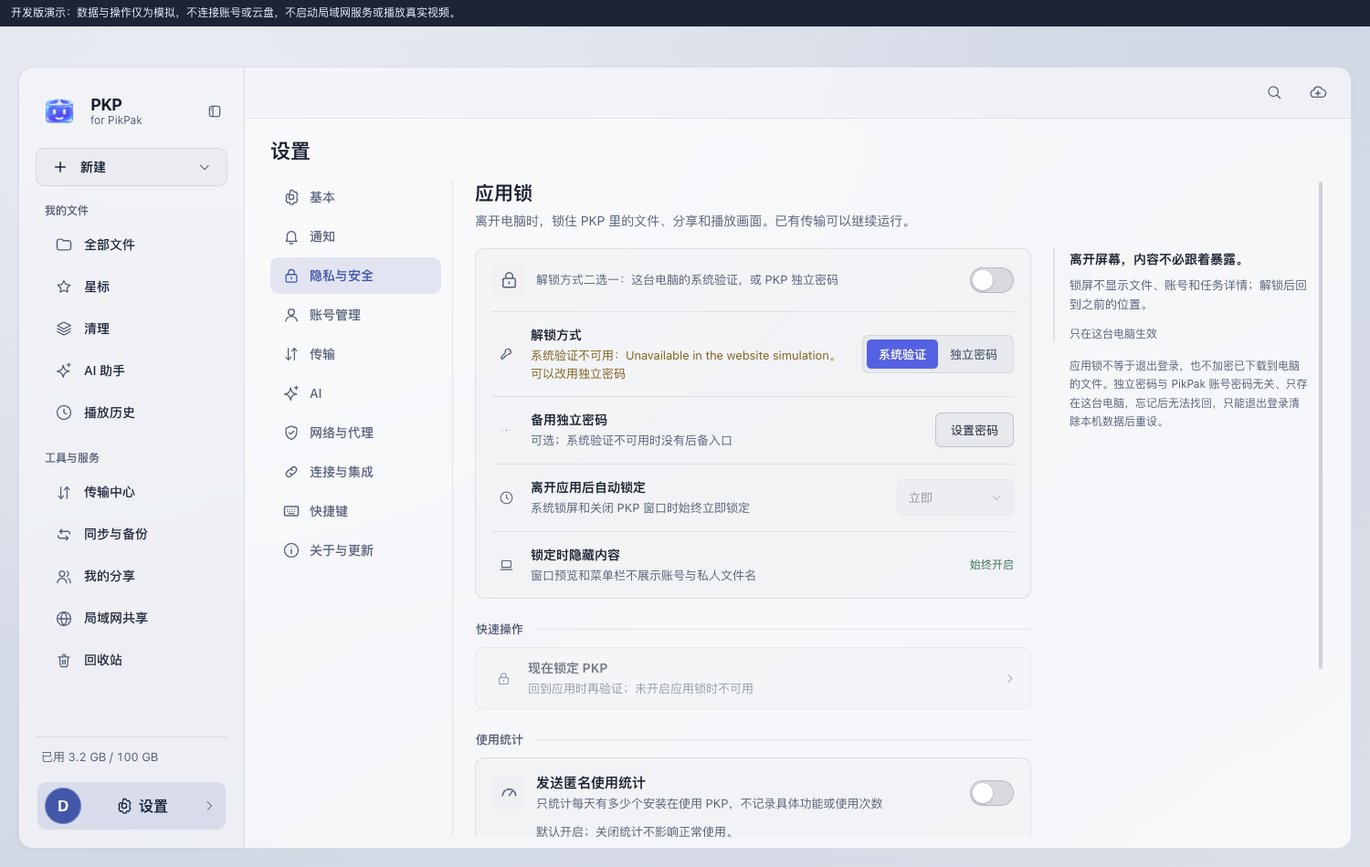
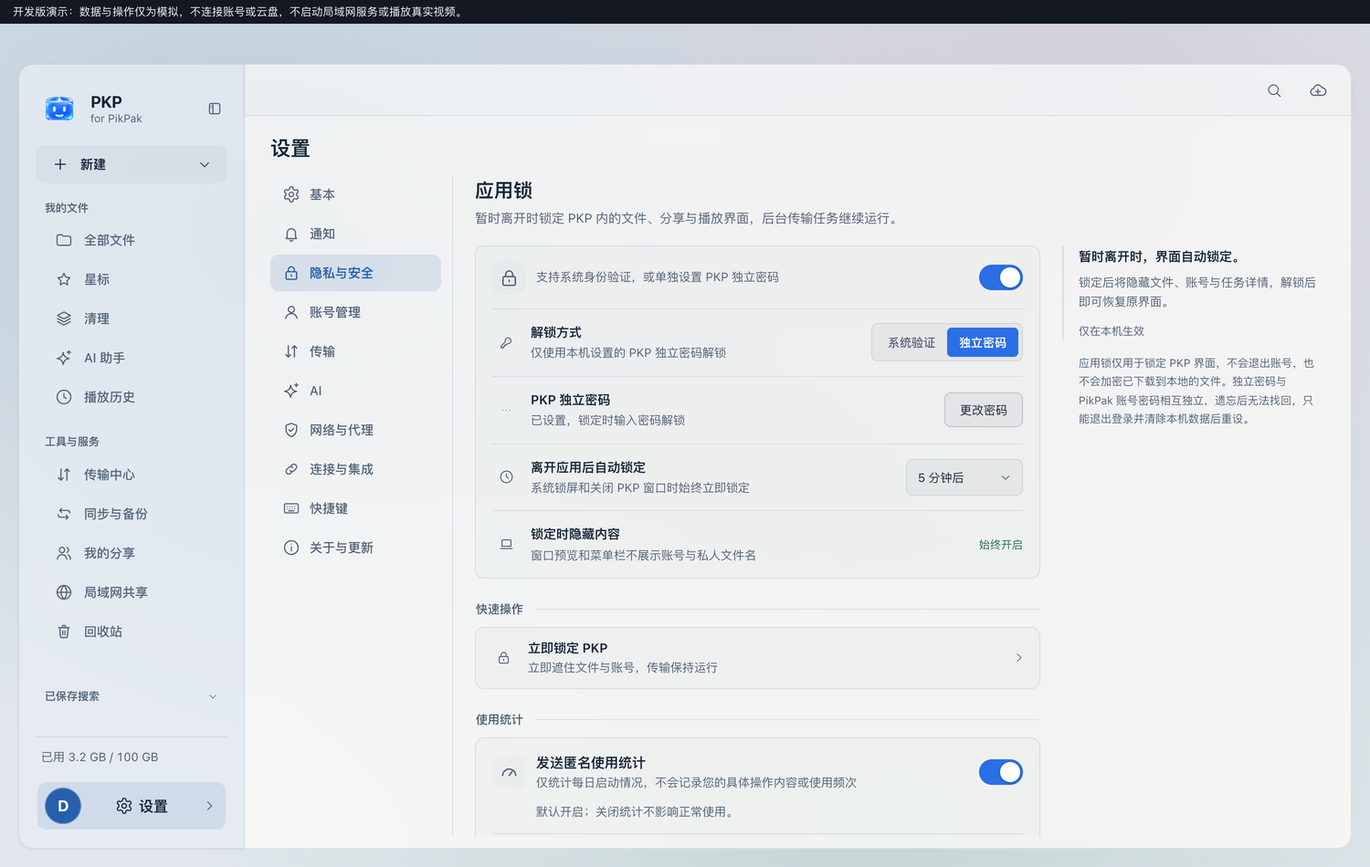
docs: sync documentation and screenshots and decouple release versions

diff --git a/docs/INSTALL.en.md b/docs/INSTALL.en.md
@@ -4,9 +4,9 @@
 
 ## Download Status
 
-**v0.7.1** improves crash diagnostics and optional feedback, and fixes native player-window lifetime risks on macOS. Download from the [latest Release](https://github.com/tonyflux/pkp/releases/latest): [macOS Universal](https://github.com/tonyflux/pkp/releases/download/v0.7.1/PKP-0.7.1-macos-universal.dmg) / [Windows x64 and ARM64](https://github.com/tonyflux/pkp/releases/download/v0.7.1/PKP-0.7.1-windows-x64-arm64-setup.exe). Check against `SHA256SUMS` from the same Release and verify the signature. Obtain installers from this repository's Releases.
+Download installers from this repository's [latest Release](https://github.com/tonyflux/pkp/releases/latest) (`PKP-<version>-macos-universal.dmg` for macOS Universal / `PKP-<version>-windows-x64-arm64-setup.exe` for Windows x64 and ARM64, plus Linux packages when included in that Release; see [Releases](https://github.com/tonyflux/pkp/releases) and the [Changelog](../CHANGELOG.en.md) for per-version notes). Check against `SHA256SUMS` from the same Release and verify the signature. Obtain installers only from this repository's Releases.
 
-v0.2.0 was the first open-source release. v0.7.1 includes `PKP-0.7.1-source.tar.gz` (PKP-owned source corresponding to the installers) and `libmpv-sources.tar.gz` (corresponding media-component source including PKP's Windows PCM helper source and license). Share Import supports pasted PikPak share links, explicit `pkp://share` opening, and automatic detection of validated clipboard shares on desktop. After a read-only grid/list preview, choose the receiving account and destination and confirm; it never imports automatically. See the [user guide](USAGE.en.md) for operations and limits.
+v0.2.0 was the first open-source release. Subsequent releases include `PKP-<version>-source.tar.gz` (PKP-owned source corresponding to the installers) and `libmpv-sources.tar.gz` (corresponding media-component source including PKP's Windows PCM helper source and license). Share Import supports pasted PikPak share links, explicit `pkp://share` opening, and automatic detection of validated clipboard shares on desktop. After a read-only grid/list preview, choose the receiving account and destination and confirm; it never imports automatically. See the [user guide](USAGE.en.md) for operations and limits.
 
 **v0.1.0 remains available** as a historical release: [macOS Universal](https://github.com/tonyflux/pkp/releases/download/v0.1.0/PKP-0.1.0-macos-universal.dmg) / [Windows x64 and ARM64](https://github.com/tonyflux/pkp/releases/download/v0.1.0/PKP-0.1.0-windows-x64-arm64-setup.exe). That Release also provides `libmpv-sources.tar.gz` and the terms in effect at the time. Its installers were not built from the current source and remain under [those proprietary terms](legal/v0.1.0-proprietary.txt). Prefer the latest version for new installs. Usage statistics defaulted to off in v0.2.0 and on in v0.1.0; v0.3.0 defaults daily active installation statistics to on.
 
@@ -51,7 +51,7 @@ Windows provides a shared x64 / ARM64 installer that selects the application and
 
 ## Linux
 
-Current source builds `.deb`, `.rpm`, and AppImage packages for x86_64 (`amd64`) and ARM64 (`arm64`). Native minimums are glibc 2.39, GTK 4.14 and WebKitGTK 6.0; Ubuntu 24.04 is the build baseline. This does not add Linux assets to the existing v0.7.1 release: check the actual Release attachments rather than treating source support as publication.
+Current source builds `.deb`, `.rpm`, and AppImage packages for x86_64 (`amd64`) and ARM64 (`arm64`). Native minimums are glibc 2.39, GTK 4.14 and WebKitGTK 6.0; Ubuntu 24.04 is the build baseline. Source support does not mean every Release includes Linux packages: check the actual Release attachments rather than treating source support as publication.
 
 - Ubuntu/compatible Debian systems: after verification, use `sudo apt install ./PKP-<version>-linux-<arch>.deb`. The package manager installs GTK, WebKitGTK, libmpv and FFmpeg dependencies.
 - RPM distributions: use `sudo dnf install ./PKP-<version>-linux-<arch>.rpm`. RPM carries the same private runtime as AppImage instead of requiring Ubuntu FFmpeg ABIs on Fedora-like systems. The host still needs glibc 2.39, user namespaces and graphics drivers; system policy/keyring/desktop portal services come from package management and the desktop session.
@@ -61,7 +61,7 @@ Current source builds `.deb`, `.rpm`, and AppImage packages for x86_64 (`amd64`)
 - GTK rendering supports X11 and Wayland. Scaling, drivers, GNOME/KDE and multiple displays still require device-specific acceptance. Without a system-tray host, closing the main window does not hide PKP somewhere inaccessible.
 - Remembered passwords require an unlocked Secret Service keyring such as GNOME Keyring or compatible KWallet. System authentication requires the packaged polkit policy and a desktop authentication agent. A standalone AppImage does not install system policy; use a PKP standalone password when unavailable. Linux cannot guarantee blocking screenshots, screen recordings or cached desktop previews.
 - RPM/AppImage use a bundled `/usr` in a private mount namespace. Home and ordinary files retain their paths; host `/usr` is accessible through the runtime's `host-usr` directory. Prefer native deb if directly browsing host system `/usr` files is required.
-- Revealing external files requires FileManager1 or a desktop portal; RPM/AppImage never execute host `.desktop` commands against private runtime libraries. Notifications, lock events and power management depend on host session services and report unavailable services explicitly. Private-runtime “Open notification settings” supports GNOME D-Bus activation; use system settings manually on other desktops.
+- Revealing external files requires FileManager1 or a desktop portal; RPM/AppImage never execute host `.desktop` commands against private runtime libraries. Notifications, lock events and power management depend on host session services and report unavailable services explicitly. Private-runtime “System notification settings” supports GNOME D-Bus activation; use system settings manually on other desktops.
 - Local sync and LAN directory authorization support ordinary ext4, XFS, Btrfs and tmpfs. Network/FUSE/overlay filesystems and encrypted/casefold directories whose safe name semantics cannot be represented are refused; an unavailable directory is never treated as deleted content. Linux local deletion uses freedesktop Trash without a permanent-delete fallback.
 
 Uninstalling the program does not delete account configuration, keyring entries, downloads or screenshots. Sign out and remove accounts in the app first, then follow the privacy notice for remaining data.
@@ -73,7 +73,7 @@ Versions that support updates can check via “Settings → About & Updates”; 
 Release information, download progress, and download/install buttons appear together in the version card at the top of the page. Release notes follow and scroll with the page. The default window shows the main update action without scrolling; notification and menu entries also return to the result area at the top.
 
 - macOS (from v0.2.0): first click “Download Update,” then “Restart & Update” after download and verification finish. During preparation, macOS may request permission to replace the app; quit any other PKP instances using the same installed app first. Once you confirm quitting, the update helper waits for PKP to exit, replaces the app in its original location, and reopens the same profile. Accounts and local settings are preserved. Canceling permission or quit confirmation does not force PKP to close. Update from the installed app in Applications, not a DMG, a read-only location, or a translocated temporary path. Updates do not remove quarantine flags or bypass Gatekeeper. The ad hoc signing and lack of notarization still apply, and reopening may require system approval.
-- Windows: click “Quit and Run Installer,” then proceed through the quit confirmation and system administrator authorization. Canceling either quitting or authorization will not force PKP to close. The installer requires other PKP processes to exit and reuses the original installation directory; there is no need to uninstall first. Accounts and local settings are retained. Thorough acceptance testing on real Windows devices is still needed.
+- Windows: click “Quit & Run Installer,” then proceed through the quit confirmation and system administrator authorization. Canceling either quitting or authorization will not force PKP to close. The installer requires other PKP processes to exit and reuses the original installation directory; there is no need to uninstall first. Accounts and local settings are retained. Thorough acceptance testing on real Windows devices is still needed.
 - Linux: after download and verification, click “Show Package.” The package is saved under `PKP Updates` in your home directory and remains after quitting or restarting; you may delete it after installation. Quit PKP, then install deb/rpm through the package manager or manually replace the original AppImage. No silent elevation or system-file replacement occurs. Signed Linux assets use a separate `linuxPackages` field, retaining the legacy two-platform macOS/Windows update contract.
 - The released macOS v0.1.0 does not include this replacement helper. To gain “Restart & Update,” upgrading to v0.2.0 or later still requires one manual replacement: download and open the new DMG, quit PKP, then drag it over the installed app. Do not run the app directly from the image. Accounts and local settings are preserved.
 - Local test versions that lack update functionality or trust the old development public key require manually downloading and installing the official version first; no upgrade prompt will appear if both versions are 0.1.0.
@@ -82,7 +82,7 @@ v0.2.0 is published with this macOS update flow. Publishing the release does not
 
 ## First Launch
 
-- Log in with your own PikPak account. “Remember Account and Password” and “Automatic Login” are currently checked by default; uncheck them if you do not want your password saved.
+- Log in with your own PikPak account. “Remember account and password” and “Sign in automatically” are currently checked by default; uncheck them if you do not want your password saved.
 - Read the [Privacy Notice](../PRIVACY.en.md) first. v0.1.0 defaulted usage statistics on; v0.2.0 defaulted them off. v0.3.0 defaults daily active installation statistics to on, including existing settings with no explicit choice, while preserving identifiable explicit opt-outs. A one-time notice explains the default and how to turn statistics off in Settings → Privacy & Security, also accessible before sign-in. Got it and dismissal are not consent and leave statistics enabled; the notice has no turn-off button. With an endpoint, recording starts at startup and sending can begin about 30 seconds later, before acknowledgment; development builds without an endpoint neither collect nor show the notice. Publishing the app does not deploy companion telemetry services.
 - The first login creates a local file index, during which you can still browse; search and drive-wide statistics may need to wait until the index is ready.
 - macOS may request permission for system notifications; whether to allow them is up to you. Actual notification behavior in the current ad hoc build still awaits confirmation on real devices.

diff --git a/README.md b/README.md
@@ -31,31 +31,31 @@ PKP is an independent desktop client for a PikPak account you already have. It i
 
 - **AI organizing assistant, with review before apply.** Local filename rules can draft a plan with no model. You can also connect your own model (or local Ollama) and TMDB credentials. Renames, moves, and cleanup wait until you confirm the plan.
 - **Folder sync.** Pair a local folder with a cloud folder. Two-way sync, local-to-cloud backup, or cloud-to-local download. PKP scans both sides and shows the plan before it runs. Sync works while PKP is open.
-- **Native playback.** A bundled libmpv player: quality switching, subtitles, audio tracks, resume, and a separate window. Availability depends on the file, codec, and service.
+- **Native playback.** A native libmpv player: quality switching, subtitles, audio tracks, resume, and a separate window. Availability depends on the file, codec, and service.
 - **LAN sharing.** Share selected local or cloud folders read-only with a separate password. Devices on the same network can browse, download originals, and play supported media through a responsive browser page while PKP is running.
 - **Share Import.** Paste a PikPak share link or explicitly open `pkp://share`; desktop builds also detect validated clipboard shares at startup or when returning to PKP. Browse a read-only grid/list preview, then explicitly choose the receiving account and destination folder and confirm. Detection and preview never import automatically. See the [user guide](docs/USAGE.en.md#import-a-pikpak-share).
-- **AI subtitles.** Generate captions from the video's audio through PikPak, in the original language or Chinese, English, Japanese, or Korean. Available on macOS since v0.6.0 and on Windows x64/ARM64 since v0.6.1. Enable them in the player's subtitle menu; PikPak membership, quota, and availability apply. No chat-model API key is needed. See [usage and data handling](docs/USAGE.en.md#playback-and-reading).
+- **AI subtitles.** Generate captions from the video's audio through PikPak, in the original language or Chinese, English, Japanese, or Korean. Supported on macOS, Windows x64/ARM64, and Linux builds with bundled/system audio decoding. Enable them in the player's subtitle menu; PikPak membership, quota, and availability apply. No chat-model API key is needed. See [usage and data handling](docs/USAGE.en.md#playback-and-reading).
 - **Local index search.** Each account keeps an index on this computer, with type, size, and other filters. Search does not send file names to a model. The first index takes time.
-- **Multiple accounts.** Each account has its own session, transfer queue, and index. Switching accounts leaves the others' transfers running.
+- **Multiple accounts.** Each account keeps its own session, transfer queue, and local index; switching accounts leaves the others' transfers running. With multiple accounts, choose **All accounts** on the Files page to browse, filter, search, play, and download across accounts' local indexes while keeping cloud drives and transfer queues isolated per account.
 - **Privacy on this computer.** Remembered passwords and optional API keys use macOS Keychain, Windows Credential Manager or Linux Secret Service. See [Privacy](#privacy).
 
 The interface is available in English, Simplified Chinese, Traditional Chinese, Japanese, and Korean.
 
 ## Install
 
-**[PKP 0.7.1](https://github.com/tonyflux/pkp/releases/tag/v0.7.1)** improves crash diagnostics and optional feedback, and fixes native player-window lifetime risks on macOS. Download only from this repository's [latest Release](https://github.com/tonyflux/pkp/releases/latest), then check `SHA256SUMS` from the same release. Details and first-launch steps are in the [installation guide](docs/INSTALL.en.md). v0.2.0 was the first open-source release.
+Download only from this repository's [latest Release](https://github.com/tonyflux/pkp/releases/latest) (see [Changelog](CHANGELOG.en.md) and release notes on GitHub for what changed), then check `SHA256SUMS` from the same release. Details and first-launch steps are in the [installation guide](docs/INSTALL.en.md). v0.2.0 was the first open-source release.
 
 | Platform | Download |
 | --- | --- |
-| macOS 12 or later, Apple silicon and Intel | [PKP-0.7.1-macos-universal.dmg](https://github.com/tonyflux/pkp/releases/download/v0.7.1/PKP-0.7.1-macos-universal.dmg) |
-| Windows x64 / ARM64 preview | [PKP-0.7.1-windows-x64-arm64-setup.exe](https://github.com/tonyflux/pkp/releases/download/v0.7.1/PKP-0.7.1-windows-x64-arm64-setup.exe) |
-| Linux x86_64 / ARM64 | Current source builds deb/rpm/AppImage; see [Linux installation and limits](docs/INSTALL.en.md#linux). Existing v0.7.1 has no Linux attachment. |
+| macOS 12 or later, Apple silicon and Intel | Download `PKP-<version>-macos-universal.dmg` from the [latest Release](https://github.com/tonyflux/pkp/releases/latest) |
+| Windows x64 / ARM64 preview | Download `PKP-<version>-windows-x64-arm64-setup.exe` from the [latest Release](https://github.com/tonyflux/pkp/releases/latest) |
+| Linux x86_64 / ARM64 | Check the [latest Release](https://github.com/tonyflux/pkp/releases/latest) for `deb`/`rpm`/`AppImage` attachments, or build from source; see [Linux installation and limits](docs/INSTALL.en.md#linux). |
 
 The macOS build is ad hoc signed and is not notarized, so the system may ask you to approve the first launch. The Windows build has no Authenticode publisher signature, and playback, sync, notifications, and system authentication still need broader testing on real devices. Linux targets GTK4/WebKitGTK 6.0 on Ubuntu 24.04 or compatible userspace; AppImage retains the sandbox and needs user namespaces. Builds do not imply a published package or complete device acceptance.
 
 **Homebrew.** PKP has no cask. `brew install --cask pikpak` installs PikPak's own app, which is a different program.
 
-Since v0.2.0, releases use eight assets: the two installers, `update.json`, `update.json.sig`, `PKP-<version>-source.tar.gz`, `libmpv-sources.tar.gz`, `LICENSE`, and `SHA256SUMS`. v0.7.1 retains this set and the same update trust key. The historical [v0.1.0](https://github.com/tonyflux/pkp/releases/tag/v0.1.0) installers stay under the proprietary terms shipped with that release. Prefer the latest public release for a new install. Usage statistics defaulted to off in v0.2.0 and on in v0.1.0, and daily active installation statistics default to on since v0.3.0.
+Since v0.2.0, two-platform releases include eight assets: the two installers, `update.json`, `update.json.sig`, `PKP-<version>-source.tar.gz`, `libmpv-sources.tar.gz`, `LICENSE`, and `SHA256SUMS`; Linux-inclusive releases add amd64/arm64 `deb`, `rpm`, `AppImage`, and runtime source archives (16 assets total) while keeping the same update trust key. The historical [v0.1.0](https://github.com/tonyflux/pkp/releases/tag/v0.1.0) installers stay under the proprietary terms shipped with that release. Prefer the latest public release for a new install. Usage statistics defaulted to off in v0.2.0 and on in v0.1.0, and daily active installation statistics default to on since v0.3.0.
 
 ## In the app
 
@@ -72,8 +72,8 @@ Since v0.2.0, releases use eight assets: the two installers, `update.json`, `upd
   </tr>
   <tr>
     <td colspan="2" valign="top">
-      <img src="assets/screenshots/en/accounts.webp" alt="English account switcher with two demo accounts">
-      <br><b>Switch accounts</b> without merging drives.
+      <img src="assets/screenshots/en/accounts.webp" alt="English account switcher and All accounts scope with two demo accounts">
+      <br><b>Switch accounts or browse All accounts</b> across local indexes without merging cloud drives or transfer queues.
     </td>
   </tr>
 </table>
@@ -121,7 +121,7 @@ make app-go
 Read the privacy notice before you sign in: [English](PRIVACY.en.md) · [简体中文](PRIVACY.md).
 
 <p align="center">
-  <img src="assets/screenshots/en/app-lock.webp" alt="English App Lock settings, with system login or a separate PKP password" width="720">
+  <img src="assets/screenshots/en/app-lock.webp" alt="English Privacy settings showing App Lock (System or PKP password) and usage statistics in the development demo" width="720">
 </p>
 
 - Remembered passwords, AI keys, and TMDB credentials use macOS Keychain (service `com.pkp.desktop`), Windows Credential Manager or Linux Secret Service. Session tokens remain in a local credentials file. Remember-password and automatic-login options start checked; clear them to keep the sign-in password only in memory. Linux requires an unlocked session keyring. App Lock limits in-app access, not downloaded-file/config-directory encryption or guaranteed Linux capture protection.
@@ -138,7 +138,7 @@ Local data, deletion limits, and the statistics endpoint are spelled out in [PRI
 | --- | --- |
 | macOS | Universal app for macOS 12 or later. Ad hoc signature, not notarized. |
 | Windows | One x64 / ARM64 preview installer. No Authenticode publisher signature. Some macOS-only integrations are absent, and real-device coverage is still thin. |
-| Linux | No packages and no support commitment. |
+| Linux | Source builds `deb`, `rpm`, and `AppImage` packages for x86_64 / ARM64 targeting the Ubuntu 24.04 / GTK4 / WebKitGTK 6.0 baseline. Whether a release includes Linux attachments depends on the assets published on that Release. See [Linux installation and limits](docs/INSTALL.en.md#linux). |
 
 PKP works with files in your own PikPak account. Quotas, network access, and Premium-only features follow that account. Back up important files before sync, cleanup, or a bulk organize.
 

diff --git a/RELEASE.en.md b/RELEASE.en.md
@@ -8,7 +8,7 @@ This file describes only the release constraints for the public repository. It d
 - PKP's own source code is licensed under GPL-3.0-only. The released v0.1.0 installation packages are governed by `docs/legal/v0.1.0-proprietary.txt`; do not retroactively apply the current source code or the new license to that version.
 - Historical eight-asset releases from v0.2.0 remain verifiable. Linux-inclusive releases add amd64/arm64 deb, rpm, AppImage and corresponding-runtime-source archives, for sixteen assets. The signed `linuxPackages` field authenticates additions while `packages` retains exactly the two legacy macOS/Windows entries. PKP-owned source corresponds to the release commit; Linux runtime source matches the distribution packages actually bundled, not the macOS/Windows media-source archive. Do not commit installers; historical v0.1.0 terms remain unchanged.
 - Keep the update-signing private key outside the repository or in the optional protected GitHub `release` environment, never in ordinary CI. If it is lost, do not silently replace the public key trusted by distributed clients.
-- The maintainer has confirmed that the current third-party client identity parameters may be published and reused. Authentication values, the signing algorithm, and referral behavior remain unchanged. This does not imply PikPak endorsement or an independent legal audit.
+- The maintainer has confirmed that the current third-party client identity parameters may be published and reused; authentication values and the signing algorithm remain, while automatic post-sign-in referral submission and registration attribution have been removed from the current source (previously established relationships are not automatically revoked). This does not imply PikPak endorsement or an independent legal audit.
 - The maintainer has confirmed permission to publish and distribute the current application mark with the open-source source and installation packages; it is no longer an unresolved blocker. This does not imply official endorsement. See `docs/legal/artwork-provenance.md` for provenance and export-chain boundaries.
 - From v0.2.0, macOS uses an explicit “Download Update → Restart & Update” flow. After preparation and user-confirmed quitting, the helper replaces the app in place and reopens the same profile, preserving accounts and settings. macOS may request replacement permission; other PKP instances using the same app must quit first and are not forcibly terminated. The existing stable `update.json`, Ed25519 signature, DMG, and embedded trust key remain in use. There is no Sparkle, automatic download, silent installation, quarantine removal, or Gatekeeper bypass. Released macOS v0.1.0 still requires one manual drag replacement to gain this feature. Windows keeps its existing user-confirmed quit-and-run-installer flow.
 - Isolated, signed, windowless native fixtures have exercised cancellation, integrity rejection, instance contention, replacement with same-profile relaunch, and rollback after launch failure; see the reproducible scripts in the [development guide](docs/DEVELOPMENT.en.md). Before official release, manually verify the real app's quit confirmation, system replacement authorization approval/cancellation, Gatekeeper, and upgrades across supported devices. Isolated smoke tests are not production-upgrade acceptance, and update signatures are not Apple signing or notarization.
@@ -16,7 +16,7 @@ This file describes only the release constraints for the public repository. It d
 
 ## Release paths
 
-Version 0.2.0 was the first open-source release; v0.4.1 retains the eight assets above and the existing update trust key, including About & Updates improvements alongside v0.4.0's read-only LAN sharing, file context menus and shortcuts, external magnet/torrent opening, unified grid/list pickers, and Share Import. macOS remains ad hoc signed and not notarized; Windows has no Authenticode signature and remains preview support, with incomplete device acceptance. Built-in PPT/PPTX previews and `pptx-preview` have been removed, so that dependency no longer blocks the current source; this does not retroactively resolve historical distribution obligations. The maintainer has confirmed distribution permission for the current application mark; see [third-party notices](THIRD_PARTY.en.md) for other asset and provenance boundaries. Review both release notes and complete platform acceptance before official publication; native Windows installation and upgrade still await manual verification. The signing key must match the public key embedded in existing clients, which the release tool checks. Never commit the key or change the trust key silently.
+Version 0.2.0 was the first open-source release; two-platform releases from v0.2.0 retain the eight-asset set above and the existing update trust key (while subsequent releases add capabilities such as read-only LAN sharing, file context menus and shortcuts, Share Import, the AI assistant, AI subtitles, and crash feedback; Linux-inclusive releases add the eight Linux assets described above). macOS remains ad hoc signed and not notarized; Windows has no Authenticode signature and remains preview support, with incomplete device acceptance. Built-in PPT/PPTX previews and `pptx-preview` have been removed, so that dependency no longer blocks the current source; this does not retroactively resolve historical distribution obligations. The maintainer has confirmed distribution permission for the current application mark; see [third-party notices](THIRD_PARTY.en.md) for other asset and provenance boundaries. Review both release notes and complete platform acceptance before official publication; native Windows installation and upgrade still await manual verification. The signing key must match the public key embedded in existing clients, which the release tool checks. Never commit the key or change the trust key silently.
 
 Commit the intended source, assets, dependency locks and release notes as a clean snapshot before packaging. `make release-local` captures HEAD before building and confirms that source has not changed when archiving. It rejects uncommitted or nonignored untracked files, tracked caches, submodules and Git attributes that transform archive content. The signed manifest records the source commit, tree, archive size and hash. Upload requires that actual source commit to exist in public `main` history; an old documentation-only commit cannot substitute. The source archive includes pinned Go/npm inputs and isolated cache restoration instructions; media sources are attached separately. See [THIRD_PARTY.en.md](THIRD_PARTY.en.md) for the material boundaries.
 

diff --git a/build/release-notes.en.md b/build/release-notes.en.md
@@ -1,27 +1,15 @@
-# PKP 0.4.1
+# PKP 0.7.1
 
 [简体中文 / Bilingual release notes](release-notes.md)
 
-Refined About & Updates layout, stationary glass shell when signed out, and safe Markdown rendering for release notes.
+This patch improves crash diagnostics and fixes native player-window lifetime risks on macOS.
 
-## Highlights
+- Unhandled Go panics, runtime fatal errors and recorded startup/Wails fatal errors produce a local `PKP-Crash-*.log` on the desktop, or in the system cache if the desktop is unavailable. Normal exits do not produce reports; forced termination, some native-library failures and very early startup failures may not produce one either.
+- On the next launch, you can review and edit an available report before choosing whether to send it. Nothing is uploaded unless you select **Send report**. Don't send or closing keeps the local file and stops reminders for that report; sending failures can be retried manually. Feedback is independent of the anonymous usage-statistics setting.
+- Reports may contain filenames, paths, links, account details or tokens. Remove sensitive information before sending. The report is processed by Cloudflare and accessible to the developer; a daily cleanup is configured for reports older than 29 days, though failures can delay deletion. Sent reports cannot be automatically recalled.
+- Fix a macOS native-window lifetime race when reshaping the separate player during close or shutdown, and an error-message lifetime issue in the video surface. These are confirmed code risks; the cause of an individual reported crash still requires its diagnostics.
+- The crash-report and usage-statistics dashboards now adapt to mobile screens, including report review, pagination and touch inspection of statistics charts.
 
-- **About & Updates top card**: show check results, release version, download progress, and download/install actions together in the top version card. The default window exposes the main update action and the start of the release notes without scrolling; long notes scroll with the page, followed by automatic-check settings and community links. Signed-in, signed-out, notification, and menu entries return to the result area at the top while preserving signature verification, skipped versions, installation confirmation, all five UI languages, and light/dark themes.
-- **Signed-out update shell & Markdown release notes**: keep the glass rim on a stationary outer shell while scrolling long content inside the inner body so border decoration no longer crosses text. Render release notes with the existing safe Markdown reader (headings, lists, emphasis, and code); open external links only on explicit clicks without loading remote images or interpreting raw HTML.
-- **Includes v0.4.0 capabilities**: default-off read-only LAN sharing (with Windows first-time initialization and drive-alias resolution fixes), PikPak Share Import previews and desktop clipboard detection, external `magnet:` and `.torrent` opening, unified grid/list pickers across file/folder dialogs, and desktop file context menus and keyboard shortcuts.
+The release contains eight assets: macOS Universal and Windows x64/ARM64 installers, signed update manifest and signature, `PKP-0.7.1-source.tar.gz`, `libmpv-sources.tar.gz`, `LICENSE` and `SHA256SUMS`. macOS is ad hoc signed and not Apple-notarized; Windows lacks Authenticode signing and remains preview support. Native installation and upgrade, real-device matrix and production-cloud acceptance have not been completed. No Linux packages are provided.
 
-## Boundaries and privacy (unchanged policy)
-
-LAN pages use **HTTP on trusted networks only**; do not expose them through public port forwarding. QR codes exclude passwords. HTTP is unencrypted, and a separate password does not replace a trusted network.
-
-**Daily active installation statistics have defaulted to ON since v0.3.0; v0.4.1 does not change this** (v0.2.0 defaulted to OFF). Identifiable explicit opt-outs are preserved; settings without an explicit choice follow the on default, and old saves without refusal markers cannot be distinguished from no choice. With an endpoint, recording starts at startup and sending can begin about 30 seconds later, before notice acknowledgment; without one, nothing is recorded/sent and no notice appears. Got it or dismissal acknowledges the notice, not consent, and leaves statistics enabled.
-
-Reports contain a random installation ID, version, OS/architecture, language and active local dates—not feature actions, frequencies, logs, accounts, filenames, paths, searches or file contents. Turn them off in Settings → Privacy & Security, also available before sign-in. Opt-out deletes the local ID and pending reports, not server history. Counts reflect successfully reporting active installations, not verified people or exact installs; publishing the app does not deploy telemetry services.
-
-## Release assets, verification and limitations
-
-The release asset set has **eight items**: macOS Universal installer (macOS 12+, Apple silicon/Intel), combined Windows x64/ARM64 installer, update manifest and signature, `PKP-0.4.1-source.tar.gz`, `libmpv-sources.tar.gz`, `LICENSE` and `SHA256SUMS`. PKP-owned source is GPL-3.0-only; historical licensing is not changed retroactively. PKP is an unofficial client.
-
-Keep the existing Ed25519 update-signing trust and public key; no trust reset. Drafts are excluded from automatic updates, and publication does not enable automatic downloads or silent installation. macOS remains ad hoc signed and not Apple-notarized; Windows is unsigned by Authenticode and remains preview support. No Linux packages. **Full real-device, native installation/upgrade, device-matrix and production-cloud acceptance is not complete.** Never post passwords, tokens, API keys or the full configuration directory in feedback.
-
-[Installation](https://github.com/tonyflux/pkp/blob/v0.4.1/docs/INSTALL.en.md) · [Usage](https://github.com/tonyflux/pkp/blob/v0.4.1/docs/USAGE.en.md) · [Privacy](https://github.com/tonyflux/pkp/blob/v0.4.1/PRIVACY.en.md) · [Full changelog](https://github.com/tonyflux/pkp/compare/v0.4.0...v0.4.1)
+[Installation](https://github.com/tonyflux/pkp/blob/v0.7.1/docs/INSTALL.en.md) · [Usage guide](https://github.com/tonyflux/pkp/blob/v0.7.1/docs/USAGE.en.md#settings-and-quitting) · [Privacy](https://github.com/tonyflux/pkp/blob/v0.7.1/PRIVACY.en.md#signing-out-deletion-and-issue-reporting) · [Full changelog](https://github.com/tonyflux/pkp/compare/v0.7.0...v0.7.1)

diff --git a/THIRD_PARTY.en.md b/THIRD_PARTY.en.md
@@ -17,7 +17,7 @@ Linux deb depends on distribution libmpv/FFmpeg. RPM and AppImage carry their ac
 
 Starting with v0.2.0, `PKP-<version>-source.tar.gz` separately includes the complete PKP-owned source, assets, locks and build scripts corresponding to the Git commit and tree recorded in the signed update manifest, plus pinned Go module sources, npm distributions and verifiable preferred upstream sources under `third_party/`. Its inventory records checksums and includes isolated dependency-cache restoration instructions; `.git`, account data and private keys are excluded. Install system SDKs, compilers and packaging tools as described in the development guide. Optional native npm build-tool binaries are not described as their complete source, and bit-for-bit reproducibility is not promised.
 
-For packages built from the current source, third-party notices are in `Contents/Resources/licenses/` inside the macOS app (Finder: Show Package Contents), or `licenses` in the Windows installation directory. `GO_LICENSES.txt` collects Go standard-library and production dependency license, copyright, patent and notice files from the Go toolchain and modules selected by `go list` for both release architectures. It includes upstream inherited notices, including modernc's SQLite and libc materials. `THIRD_PARTY_LICENSES.txt` is generated from installed frontend production dependencies and pdfjs-dist asset licenses; the remaining license tree is for media components. PKP's own license is `LICENSE.txt` in Resources or the installation directory.
+For packages built from the current source, third-party notices are in `Contents/Resources/licenses/` inside the macOS app (Finder: Show Package Contents), `licenses` in the Windows installation directory, or `/usr/share/licenses/pkp/` in Linux deb/rpm packages and AppImage. `GO_LICENSES.txt` collects Go standard-library and production dependency license, copyright, patent and notice files from the Go toolchain and modules selected by `go list` for the target release architectures (both architectures on macOS/Windows; the packaged architecture on Linux). It includes upstream inherited notices, including modernc's SQLite and libc materials. `THIRD_PARTY_LICENSES.txt` is generated from installed frontend production dependencies and pdfjs-dist asset licenses; the remaining license tree is for media components. PKP's own license is `LICENSE.txt` or `LICENSE` in those directories.
 
 The current `isarray` 1.0.0 npm package contains its MIT text in README, which the generator includes; Wails' Go module supplies its MIT text separately for `@wailsio/runtime`. The optional native `@napi-rs/canvas` platform package lacks a license file; the generator includes the [v0.1.100 upstream MIT text](https://github.com/Brooooooklyn/canvas/blob/v0.1.100/LICENSE) when that version is installed. Confirm whether these packages' contents reach the distributed frontend before release.
 
@@ -27,7 +27,7 @@ The settings and seek icons are adapted from Lucide 0.468.0 (ISC); its copyright
 
 The current source has removed built-in PPT/PPTX previews and the `pptx-preview` dependency, so its license conflict no longer blocks release of the current source. The previously used `pptx-preview` 1.0.7 metadata declared ISC, but its README and the [upstream repository license](https://github.com/501351981/pptx-preview/blob/main/LICENSE) restrict source publication and open-sourcing. Removing the dependency does not establish GPL compatibility or retroactively resolve license obligations for historical copies or existing distributions. The actual contents and rights for v0.1.0 still require a separate review of that version's materials.
 
-The Go dependency graph and notice files are selected at build time; they are not a substitute for reviewing source-level notices, asset provenance, license compatibility and the actual release binaries. AI concept-generation prompts and subsequent crop/color-treatment records were found for the default wallpapers. The application mark is based on a user-provided PikPak pattern, not an independently invented AI mark. The maintainer has confirmed permission to publish and distribute the current mark with the open-source project and installation packages; it is no longer treated as an unresolved publication blocker. Evidence, hashes and unproven export-chain boundaries are recorded in [artwork provenance](docs/legal/artwork-provenance.md). The maintainer's confirmation does not imply PikPak endorsement or an independent legal audit, or replace checks of other assets and generation-service terms. LGPL-covered libraries may be replaced under their applicable licenses; replacement may affect compatibility.
+The Go dependency graph and notice files are selected at build time; they are not a substitute for reviewing source-level notices, asset provenance, license compatibility and the actual release binaries. The current default backdrops, `frontend/src/assets/mist-dark.svg` and `mist-light.svg`, are original procedural radial-gradient artwork created for the interface; AI concept-generation prompts and subsequent crop/color-treatment records were found for the earlier snowy-fjord default wallpapers. The application mark is based on a user-provided PikPak pattern, not an independently invented AI mark. The maintainer has confirmed permission to publish and distribute the current mark with the open-source project and installation packages; it is no longer treated as an unresolved publication blocker. Evidence, hashes and unproven export-chain boundaries are recorded in [artwork provenance](docs/legal/artwork-provenance.md). The maintainer's confirmation does not imply PikPak endorsement or an independent legal audit, or replace checks of other assets and generation-service terms. LGPL-covered libraries may be replaced under their applicable licenses; replacement may affect compatibility.
 
 **The v0.1.0 installation packages and corresponding source archive are available in the [Release](https://github.com/tonyflux/pkp/releases/tag/v0.1.0).** The hashes of 28 pinned source items in the archive and the consistency of the build scripts have been verified, but this is not a complete dependency or legal audit, and this document alone cannot substitute for a compliance review.
 

diff --git a/docs/legal/artwork-provenance.md b/docs/legal/artwork-provenance.md
@@ -43,18 +43,23 @@ Current `build/appicon.png` and `build/appicon.icon/Assets/appicon.png` are byte
 
 - DMG background: drawn by tracked `build/darwin/dmg-background.swift` using AppKit gradients, text and arrows; its editable generating source is included.
 - TMDB mark: `frontend/src/assets/tmdb.svg` is an external service mark, not claimed as PKP-owned artwork. TMDB attribution remains in THIRD_PARTY.
-- Public screenshots: `assets/screenshots/*.png` are isolated running-app captures with synthetic data, Simplified Chinese UI, as described in the Chinese README. The existing English website illustrations listed below were copied from https://pkpapp.cc/en on 2026-11-02 (the site labels them as redrawn from the UI with fictional demo data); they are distinct from captures of a running build. The new `workspace-0.4.0.webp` files in `assets/screenshots/` and `assets/screenshots/en/` capture the current UI in an isolated browser preview with synthetic account, folders, storage figures and bundled wallpaper previews; they do not show production cloud data. This record does not independently clear every embedded image or establish the rights of old binary releases.
+- Public screenshots: `assets/screenshots/workspace.png` and `player.png` remain earlier isolated captures with synthetic data; the active README screenshots (`assets/screenshots/{workspace-0.4.0.webp,search.png,assistant.png,sync.png,lan-desktop.webp,privacy.png}` and `assets/screenshots/en/{workspace-0.4.0.webp,accounts.webp,assistant.webp,sync.webp,lan-desktop.webp,app-lock.webp}`, plus `lan-mobile.webp` and `en/lan-mobile.webp`) are isolated browser captures of the current UI with synthetic accounts/folders/storage data (`Demo`/`Archive`, `/Simulation/Travel`, `192.0.2.10`) and the default `mist-light.svg` backdrop, rather than production cloud data. Of the earlier English website illustrations copied from https://pkpapp.cc/en on 2026-11-02 (labeled on the site as redrawn from the UI with fictional demo data), `en/workspace.webp` and `en/player.webp` remain untouched on disk in the table below, while `en/assistant.webp`, `en/sync.webp`, `en/accounts.webp`, and `en/app-lock.webp` have been replaced by current live isolated browser captures. This record does not independently clear every embedded image or establish the rights of old binary releases.
 
[9 lines of base64/hex data omitted]
 
-| File | Source on pkpapp.cc | SHA-256 |
+| File | Historical source on pkpapp.cc (2026-11-02) | Historical SHA-256 (current files on disk marked above if replaced) |
 | --- | --- | --- |
[12 lines of base64/hex data omitted]
 
 The maintainer's mark-permission confirmation and the incomplete export-chain evidence are distinct. AI use elsewhere does not establish rights or reproduce an export chain. 维护者对标志权限的确认与不完整的导出链证据是不同事项，其他素材使用 AI 不能替代权利确认或复现导出过程。

diff --git a/RELEASE.md b/RELEASE.md
@@ -8,7 +8,7 @@
 - PKP 自有源码适用 GPL-3.0-only。v0.1.0 已发布安装包适用 `docs/legal/v0.1.0-proprietary.txt`，不要把当前源码或新许可证追溯到该版本。
 - v0.2.0 起的八件历史附件保持可验证。含 Linux 的新发布在该集合上增加 amd64／arm64 各自的 deb、rpm、AppImage 和运行库对应源码包，共十六件；额外附件通过签名 `linuxPackages` 字段认证，`packages` 仍恰好为旧版 macOS／Windows 两项。PKP 自有源码包对应本次提交，Linux 运行库源码对应实际捆绑的发行版包版本，不以 macOS／Windows 媒体源码替代。安装包不进入 Git，v0.1.0 历史条款不变。
 - 更新签名私钥只放在仓库外或可选的受保护 GitHub `release` 环境中，不放入普通 CI。丢失后不要静默更换已分发客户端信任的公钥。
-- 维护者已确认当前第三方客户端身份参数可公开及复用；保留认证值、签名算法和邀请码行为。这不表示 PikPak 背书或独立法律审计。
+- 维护者已确认当前第三方客户端身份参数可公开及复用，保留认证值与签名算法；当前源码已移除登录后自动提交邀请码与注册推广归因（旧版已建立的关系不会自动撤销）。这不表示 PikPak 背书或独立法律审计。
 - 维护者已确认当前应用标志可随开源源码及安装包公开分发；不再列为待确认阻断。该确认不表示官方背书，来源记录及导出链边界见 `docs/legal/artwork-provenance.md`。
 - macOS 从 v0.2.0 起使用显式「下载更新 → 重启并更新」：助手准备完成并获用户确认退出后，在原位置替换应用、重新打开原配置，保留账号与设置。可能出现系统替换权限请求；其他使用同一应用的 PKP 实例须先退出，不强制终止。继续使用现有正式稳定版 `update.json`、Ed25519 签名与 DMG、内置信任公钥，不使用 Sparkle，不自动下载或静默安装，也不移除隔离标记或绕过 Gatekeeper。已发布的 macOS v0.1.0 仍需手动拖拽覆盖一次才能获得此功能；Windows 保持用户确认退出后运行现有安装器的流程。
 - 隔离、签名、无窗口的原生样例已验证取消、校验拒绝、实例占用、替换后按原配置重开及启动失败回滚，复现脚本见[开发指南](docs/DEVELOPMENT.md)。正式发布前仍须人工验收真实应用退出确认、系统替换授权的允许/取消、Gatekeeper 与各平台设备上的升级；隔离烟测不等于生产升级验收，更新签名也不等于 Apple 签名或公证。
@@ -16,7 +16,7 @@
 
 ## 发布路径
 
-v0.2.0 是首个开源版本；v0.4.1 沿用上文的八件附件与同一更新信任公钥，包含「关于与更新」界面改进及 v0.4.0 的局域网只读共享、文件右键菜单与快捷键、外部磁力链／种子打开、统一网格／列表选择器与分享转存。macOS 仍是 ad hoc 签名且尚未公证；Windows 没有 Authenticode 签名，仍为预览支持，设备验收不完整。当前源码已移除 PPT/PPTX 内置预览及 `pptx-preview` 依赖，其许可冲突不再是当前源码的发布阻断；这不追溯解决历史副本或既有分发的许可义务。维护者已确认当前应用标志的公开分发权限；其余素材和来源边界见[第三方组件说明](THIRD_PARTY.md)。正式发布前须审阅两种语言的发布说明并完成平台验收；Windows 原生安装及升级尚待人工验证。签名私钥必须匹配现有客户端内置的公钥，发布工具会检查这一点。不要提交私钥或静默更换信任公钥。
+v0.2.0 是首个开源版本；从 v0.2.0 起的双平台发布沿用上文的八件附件与同一更新信任公钥（后续版本陆续增加局域网只读共享、文件右键菜单与快捷键、分享转存、AI 助手、AI 字幕及崩溃反馈等能力；含 Linux 的发布另增加上文所述八件 Linux 附件）。macOS 仍是 ad hoc 签名且尚未公证；Windows 没有 Authenticode 签名，仍为预览支持，设备验收不完整。当前源码已移除 PPT/PPTX 内置预览及 `pptx-preview` 依赖，其许可冲突不再是当前源码的发布阻断；这不追溯解决历史副本或既有分发的许可义务。维护者已确认当前应用标志的公开分发权限；其余素材和来源边界见[第三方组件说明](THIRD_PARTY.md)。正式发布前须审阅两种语言的发布说明并完成平台验收；Windows 原生安装及升级尚待人工验证。签名私钥必须匹配现有客户端内置的公钥，发布工具会检查这一点。不要提交私钥或静默更换信任公钥。
 
 发布前必须把预期源码、资源、依赖锁和发布说明提交为干净快照。`make release-local` 在构建前记录 HEAD，并在归档时确认源码未变；有未提交或非忽略的未跟踪文件、跟踪的缓存、子模块或改变归档内容的 Git attributes 时会拒绝。签名清单记录源码提交、tree 及源码包的大小和哈希。上传时该实际源码提交必须已在公开 `main` 历史内，不能用仅有资料的旧提交代替。源码包附固定 Go/npm 输入与隔离缓存恢复说明；媒体源码另附。完整材料说明见 [THIRD_PARTY.md](THIRD_PARTY.md)。
 
